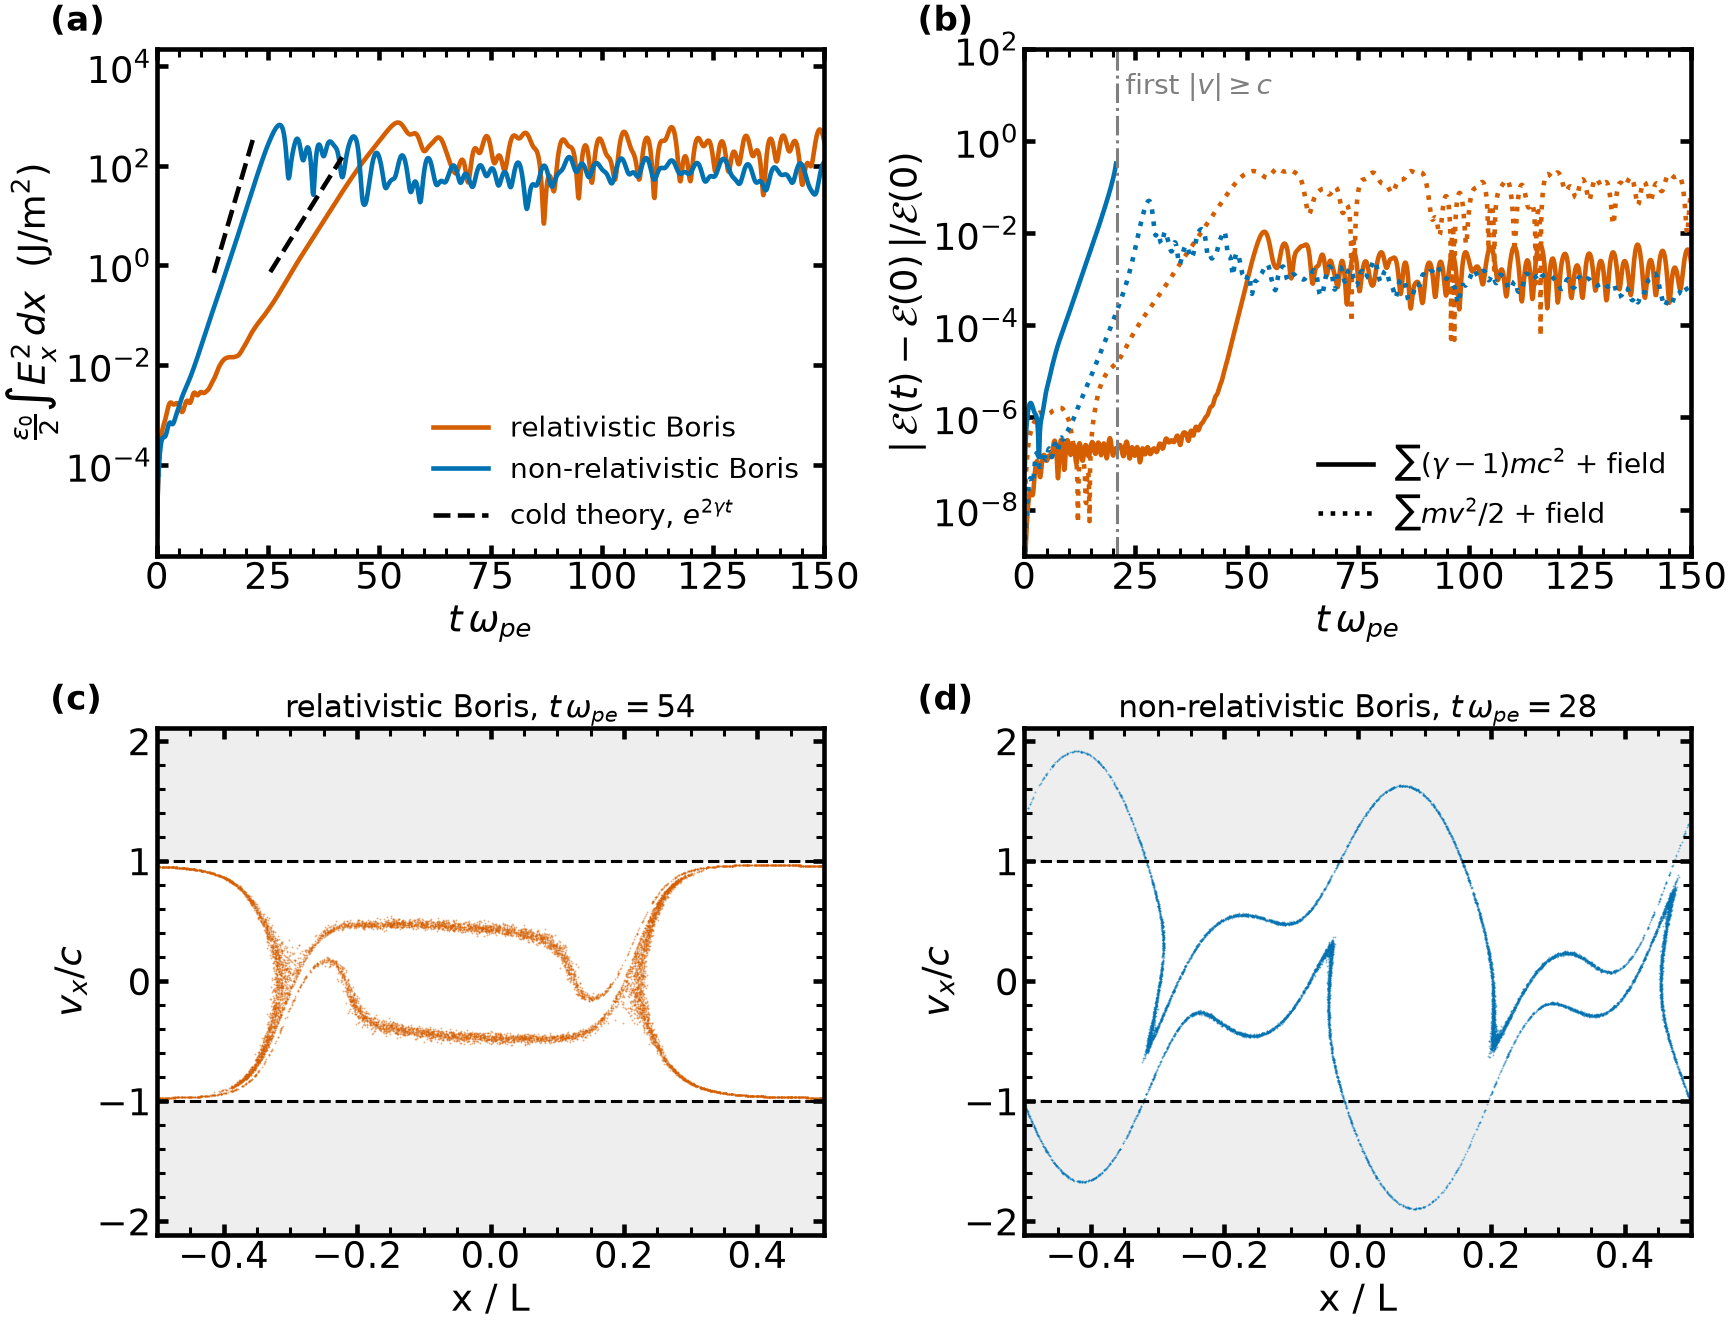
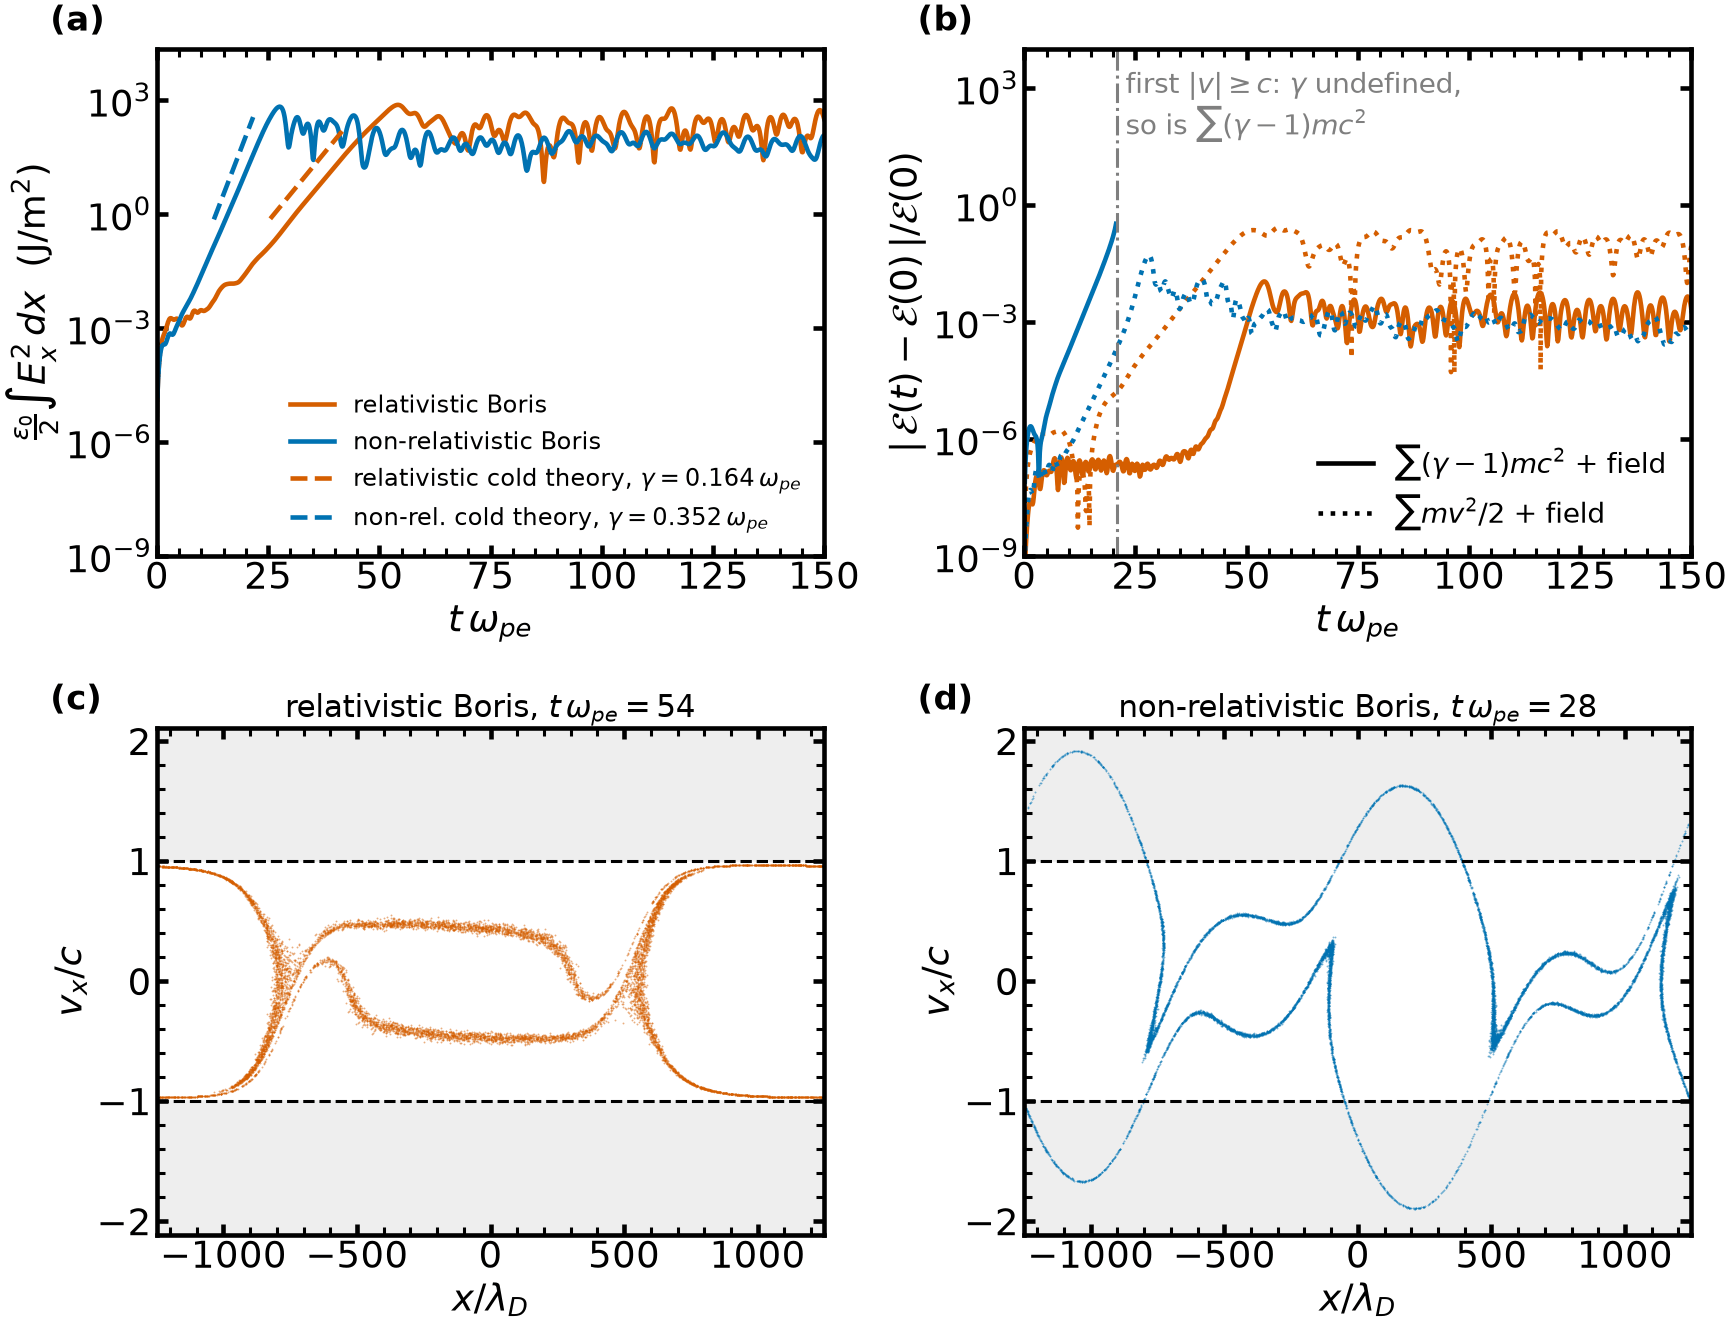
docs: relativistic two-stream figure, separate theory lines, x in Debye lengths
Panel (a) draws the relativistic (mode 1) and non-relativistic (mode 2)
cold growth rates as separate dashed lines in the colour of each run, with
the rate in the label. Panel (b) says why the relativistic energy of the
non-relativistic run stops at the first |v| >= c. Phase-space panels use
x / lambda_D with lambda_D = v_th / (sqrt(2) omega_pe), stated on the page.

diff --git a/docs/scripts/fig_relativistic.py b/docs/scripts/fig_relativistic.py
@@ -64,6 +64,10 @@ L = 2.0 * np.pi / k
 dx = L / GRID_POINTS
 dt = C_DT_OVER_DX * dx / c
 steps = int(round(T_END / (wpe * dt)))
+# Debye length of the beams, lambda_D = v_th / (sqrt(2) omega_pe) with v_th = sqrt(2 T / m):
+# the convention of the code (grid_points_per_Debye_length) and of the kinetic
+# two-stream dispersion relation 1 + [2 + xi_1 Z(xi_1) + xi_2 Z(xi_2)] / (2 k^2 lambda_D^2) = 0.
+debye_length = VTH_OVER_C * c / (np.sqrt(2.0) * wpe)
 
 # Growth rate of every box mode k_m = m k, for both sets of equations. Only the
 # first mode is unstable for the relativistic beams (a^2 < 2 wb^2 / gamma0^3);
@@ -160,7 +164,8 @@ record(relativistic_v0_over_c=V0_OVER_C, relativistic_gamma0=gamma0, relativisti
        relativistic_c_dt_over_dx=C_DT_OVER_DX, relativistic_omega_pe_dt=wpe * dt, relativistic_steps=steps,
        relativistic_k_c_over_wpe=k * c / wpe, relativistic_k_v0_over_wpe=k * v0 / wpe,
        relativistic_length_c_over_wpe=L * wpe / c, relativistic_dx_wpe_over_c=dx * wpe / c,
-       relativistic_t_end=T_END,
+       relativistic_t_end=T_END, relativistic_length_over_debye=int(round(L / debye_length)),
+       relativistic_dx_over_debye=dx / debye_length, relativistic_debye_c_over_wpe=debye_length * wpe / c,
        **{f"relativistic_gamma_cold_{key}": theory[key]["cold"] for key in theory},
        **{f"relativistic_gamma_warm_{key}": theory[key]["warm"] for key in theory},
        **{f"relativistic_fastest_mode_{key}": theory[key]["mode"] for key in theory},
@@ -190,19 +195,21 @@ fig, axes = figure(2, 2, gridspec_kw={"wspace": 0.3, "hspace": 0.34})
 ax = axes[0, 0]
 for key, _, label, colour in RUNS:
     ax.semilogy(results[key]["t"], results[key]["energy"], color=colour, label=label)
+# Fastest box mode of each theory: mode 1 with the gamma0^3, mode 2 without (see the page).
+THEORY_LABELS = {"relativistic": "relativistic cold theory", "newtonian": "non-rel. cold theory"}
 for key, _, _, colour in RUNS:
     f = results[key]["fit"]
     tt = np.linspace(f["t0"], f["t1"], 50)
     # Theory is drawn from the electrostatic energy at the start of the fit window,
     # shifted up by a factor 5 so that it does not hide the simulation.
     anchor = 5 * results[key]["energy"][int(np.argmin(np.abs(results[key]["t"] - f["t0"])))]
-    ax.semilogy(tt, anchor * np.exp(2 * theory[key]["cold"] * (tt - tt[0])), ls="--", color=C_THEORY)
-ax.plot([], [], ls="--", color=C_THEORY, label=r"cold theory, $e^{2\gamma t}$")
+    ax.semilogy(tt, anchor * np.exp(2 * theory[key]["cold"] * (tt - tt[0])), ls="--", color=colour,
+                label=rf"{THEORY_LABELS[key]}, $\gamma = {theory[key]['cold']:.3f}\,\omega_{{pe}}$")
 ax.set_xlabel(r"$t\,\omega_{pe}$")
 ax.set_ylabel(r"$\frac{\epsilon_0}{2}\int E_x^2\,dx$  (J/m$^2$)")
 ax.set_xlim(0, T_END)
-ax.set_ylim(top=30 * max(r["energy"].max() for r in results.values()))
-ax.legend(loc="lower right")
+ax.set_ylim(1e-9, 30 * max(r["energy"].max() for r in results.values()))
+ax.legend(loc="lower right", fontsize=16, handlelength=1.8)
 panel_label(ax, "(a)")
 
 # (b) Relative change of the two total energies
@@ -216,11 +223,12 @@ ax.plot([], [], color=C_THEORY, label=r"$\sum(\gamma-1)mc^2$ + field")
 ax.plot([], [], color=C_THEORY, ls=":", label=r"$\sum mv^2/2$ + field")
 if newt["t_superluminal"] is not None:
     ax.axvline(newt["t_superluminal"], color=COLORS["grey"], lw=2, ls="-.")
-    ax.text(newt["t_superluminal"] + 2, 10.0, r"first $|v| \geq c$", color=COLORS["grey"], fontsize=18)
+    ax.text(newt["t_superluminal"] + 2, 3e3, "first $|v| \\geq c$: $\\gamma$ undefined,\n"
+            r"so is $\sum(\gamma-1)mc^2$", color=COLORS["grey"], fontsize=18, va="top")
 ax.set_xlabel(r"$t\,\omega_{pe}$")
 ax.set_ylabel(r"$|\,\mathcal{E}(t) - \mathcal{E}(0)\,| / \mathcal{E}(0)$")
 ax.set_xlim(0, T_END)
-ax.set_ylim(1e-9, 1e2)
+ax.set_ylim(1e-9, 1e4)
 ax.legend(loc="lower right")
 panel_label(ax, "(b)")
 
@@ -229,13 +237,13 @@ v_lim = 1.1 * max(np.abs(r["ve"][int(np.argmax(r["energy"]))]).max() for r in re
 for ax, (key, _, label, colour), letter in zip(axes[1], RUNS, ("(c)", "(d)")):
     r = results[key]
     i = int(np.argmax(r["energy"]))
-    ax.scatter(r["x"][i], r["ve"][i], s=1.5, color=colour, alpha=0.5, linewidths=0, rasterized=True)
+    ax.scatter(r["x"][i] * L / debye_length, r["ve"][i], s=1.5, color=colour, alpha=0.5, linewidths=0, rasterized=True)
     for sign in (+1, -1):
         ax.axhline(sign, color=C_THEORY, ls="--", lw=2)
         ax.axhspan(sign, sign * v_lim, color="#EEEEEE", zorder=0)
-    ax.set_xlim(-0.5, 0.5)
+    ax.set_xlim(-0.5 * L / debye_length, 0.5 * L / debye_length)
     ax.set_ylim(-v_lim, v_lim)
-    ax.set_xlabel("x / L")
+    ax.set_xlabel(r"$x / \lambda_D$")
     ax.set_ylabel(r"$v_x / c$")
     ax.set_title(rf"{label}, $t\,\omega_{{pe}} = {r['t'][i]:.0f}$")
     panel_label(ax, letter)

diff --git a/docs/examples/relativistic_two_stream.md b/docs/examples/relativistic_two_stream.md
@@ -23,8 +23,9 @@ The full input is in `docs/scripts/fig_relativistic.py`; its values are listed b
 | beam drift $v_0/c$ | $\pm$ {{ relativistic_v0_over_c }}, Lorentz factor $\gamma_0 = $ {{ relativistic_gamma0 }} |
 | beam thermal speed $v_{th}/c$ | {{ relativistic_vth_over_c }} |
 | electron density (both beams) | {{ relativistic_density }} m$^{-3}$, protons at the same density, cold |
-| box length | {{ relativistic_length_c_over_wpe }} $c/\omega_{pe}$, one wavelength, $k v_0/\omega_{pe} = $ {{ relativistic_k_v0_over_wpe }} |
-| grid | {{ relativistic_grid_points }} cells, $\Delta x = $ {{ relativistic_dx_wpe_over_c }} $c/\omega_{pe}$ |
+| Debye length | $\lambda_D = v_{th}/(\sqrt2\,\omega_{pe})$ = {{ relativistic_debye_c_over_wpe }} $c/\omega_{pe}$, with $v_{th} = \sqrt{2T/m}$ the beam thermal speed (the convention of `grid_points_per_Debye_length` and of the kinetic dispersion relation) |
+| box length | {{ relativistic_length_c_over_wpe }} $c/\omega_{pe}$ = {{ relativistic_length_over_debye }} $\lambda_D$, one wavelength, $k v_0/\omega_{pe} = $ {{ relativistic_k_v0_over_wpe }} |
+| grid | {{ relativistic_grid_points }} cells, $\Delta x = $ {{ relativistic_dx_wpe_over_c }} $c/\omega_{pe}$ = {{ relativistic_dx_over_debye }} $\lambda_D$ |
 | time step | $c\,\Delta t/\Delta x = $ {{ relativistic_c_dt_over_dx }}, $\omega_{pe}\Delta t = $ {{ relativistic_omega_pe_dt }}, {{ relativistic_steps }} steps |
 | pseudo-particles | {{ relativistic_particles }} electrons and {{ relativistic_particles }} protons, evenly spaced |
 | seed | electron displacement of {{ relativistic_perturbation_over_L }} $L$ in the first mode |
@@ -75,12 +76,14 @@ conserve $\mathcal E_{rel}$, the non-relativistic ones $\mathcal E_{N}$. The
 :alt: Relativistic two-stream instability with the relativistic and non-relativistic Boris pushers
 
 Relativistic Boris pusher (vermillion) and non-relativistic Boris pusher (blue) on the
-same input. (a) Electrostatic energy, with $e^{2\gamma t}$ for the fastest box mode of
-each dispersion relation (dashed). (b) Relative change of $\mathcal E_{rel}$ (solid)
-and $\mathcal E_{N}$ (dotted). The blue solid line stops when the first electron of
-the non-relativistic run reaches $|v| \ge c$, after which $\gamma_p$ is not defined.
-(c), (d) Electron phase space at the peak of the electrostatic energy; the shaded
-bands are $|v_x| > c$. Generated by `docs/scripts/fig_relativistic.py`.
+same input. (a) Electrostatic energy, with $e^{2\gamma t}$ (dashed, same colour as the
+run) for the fastest box mode of each cold dispersion relation: mode 1 with
+$\omega_b^2 \to \omega_b^2/\gamma_0^3$, mode {{ relativistic_fastest_mode_newtonian }}
+without. (b) Relative change of $\mathcal E_{rel}$ (solid) and $\mathcal E_{N}$ (dotted).
+The blue solid line stops at the dash-dotted line, when the first electron of the
+non-relativistic run reaches $|v| \ge c$: from then on $\gamma_p$, and with it
+$\mathcal E_{rel}$, is not defined. (c), (d) Electron phase space at the peak of the
+electrostatic energy, position in Debye lengths; the shaded bands are $|v_x| > c$. Generated by `docs/scripts/fig_relativistic.py`.
 ```
 
 | | relativistic pusher | non-relativistic pusher |
